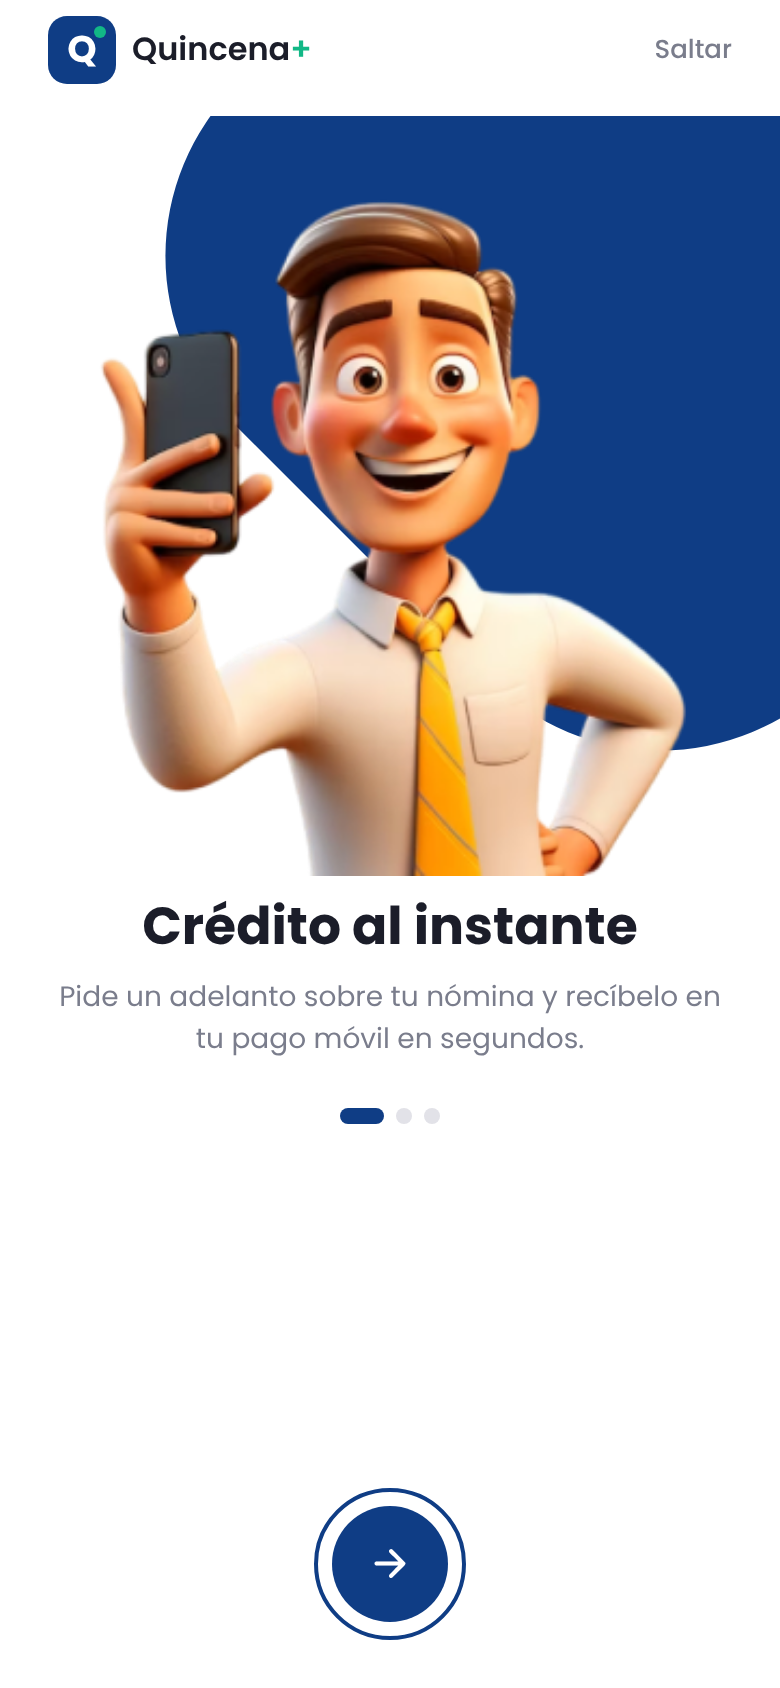
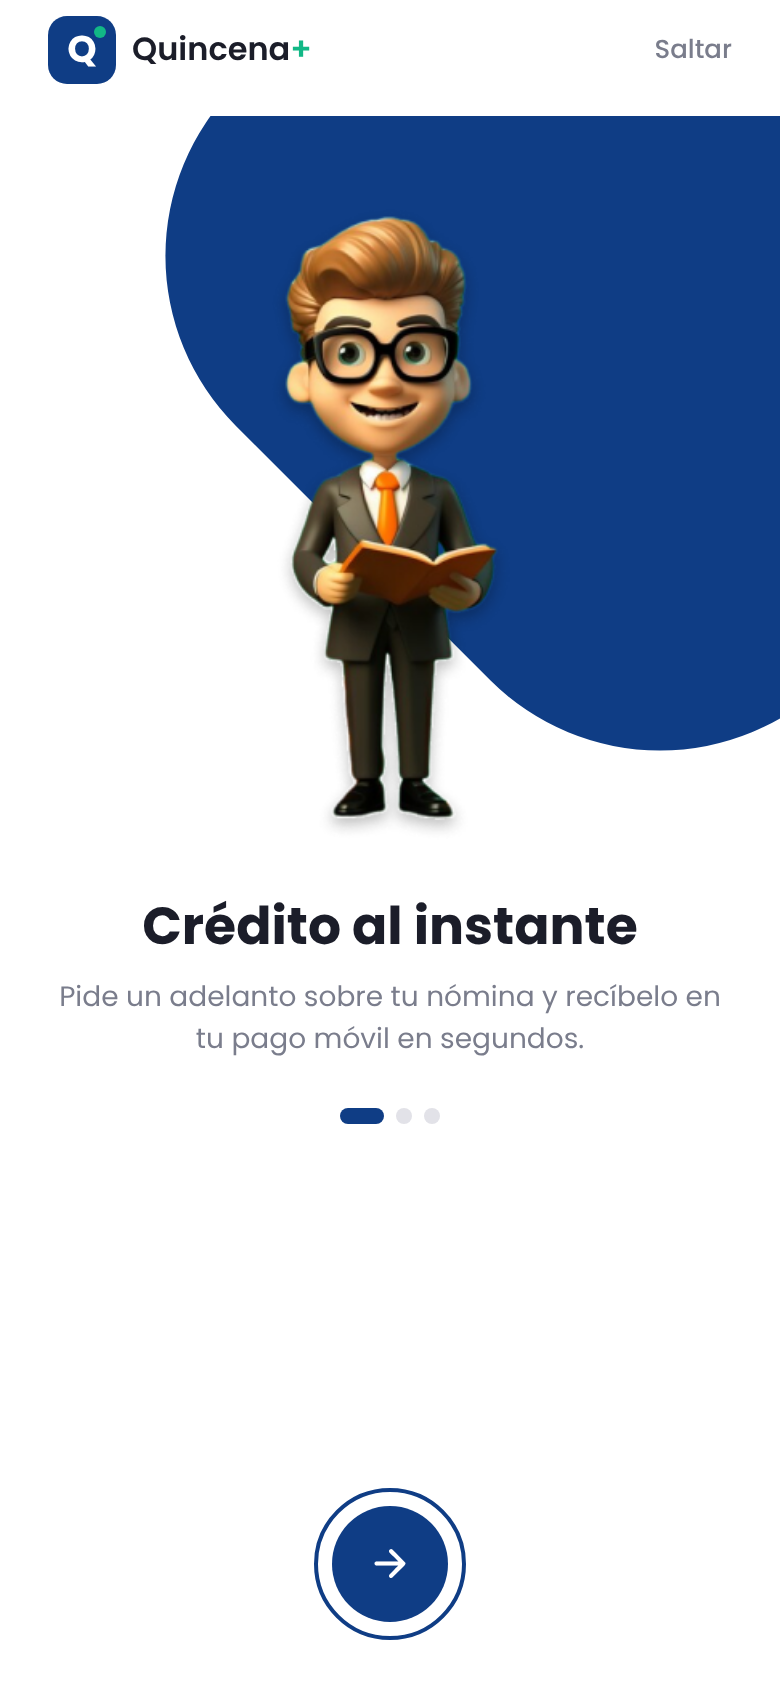
Reemplazar el personaje del teléfono por ilustraciones vectoriales animadas
Claude-Session: https://claude.ai/code/session_01PqSs9k62ArUHGqP9mjqCzU

Changed region(s): [[0.1231, 0.0924, 0.8923, 0.5237]]

diff --git a/src/components/Illustration.tsx b/src/components/Illustration.tsx
@@ -1,0 +1,119 @@
+import { Ionicons } from '@expo/vector-icons';
+import { useEffect, useRef } from 'react';
+import { Animated, Easing, View } from 'react-native';
+import { colors } from '../theme';
+
+type IconName = keyof typeof Ionicons.glyphMap;
+
+/** Ilustración vectorial: círculos concéntricos, ícono central y pequeñas insignias flotantes. */
+export function Illustration({
+  icon,
+  tint = colors.primary,
+  soft = colors.primarySoft,
+  badges = [],
+  size = 200,
+  spinning = false,
+}: {
+  icon: IconName;
+  tint?: string;
+  soft?: string;
+  badges?: readonly { icon: IconName; color: string }[];
+  size?: number;
+  spinning?: boolean;
+}) {
+  const spin = useRef(new Animated.Value(0)).current;
+  const pulse = useRef(new Animated.Value(0)).current;
+
+  useEffect(() => {
+    if (!spinning) return;
+    const a = Animated.loop(
+      Animated.timing(spin, { toValue: 1, duration: 2400, easing: Easing.linear, useNativeDriver: true }),
+    );
+    const b = Animated.loop(
+      Animated.sequence([
+        Animated.timing(pulse, { toValue: 1, duration: 700, useNativeDriver: true }),
+        Animated.timing(pulse, { toValue: 0, duration: 700, useNativeDriver: true }),
+      ]),
+    );
+    a.start();
+    b.start();
+    return () => {
+      a.stop();
+      b.stop();
+    };
+  }, [spinning, spin, pulse]);
+
+  const rotate = spin.interpolate({ inputRange: [0, 1], outputRange: ['0deg', '360deg'] });
+  const scale = pulse.interpolate({ inputRange: [0, 1], outputRange: [1, 1.08] });
+  const inner = size * 0.46;
+  // Insignias repartidas alrededor del círculo.
+  const positions = [
+    { top: size * 0.04, right: size * 0.06 },
+    { bottom: size * 0.1, left: size * 0.02 },
+    { top: size * 0.3, left: -size * 0.04 },
+    { bottom: size * 0.02, right: size * 0.12 },
+  ];
+
+  return (
+    <View style={{ width: size, height: size, alignItems: 'center', justifyContent: 'center' }}>
+      <View
+        style={{
+          position: 'absolute',
+          width: size,
+          height: size,
+          borderRadius: size / 2,
+          backgroundColor: soft,
+          opacity: 0.6,
+        }}
+      />
+      <Animated.View
+        style={{
+          position: 'absolute',
+          width: size * 0.78,
+          height: size * 0.78,
+          borderRadius: size,
+          borderWidth: 3,
+          borderStyle: spinning ? 'dashed' : 'solid',
+          borderColor: spinning ? tint : soft,
+          backgroundColor: colors.white,
+          transform: [{ rotate }],
+        }}
+      />
+      <Animated.View
+        style={{
+          width: inner,
+          height: inner,
+          borderRadius: inner / 2,
+          backgroundColor: tint,
+          alignItems: 'center',
+          justifyContent: 'center',
+          transform: [{ scale }],
+        }}
+      >
+        <Ionicons name={icon} size={inner * 0.5} color={colors.white} />
+      </Animated.View>
+      {badges.slice(0, 4).map((b, k) => (
+        <View
+          key={k}
+          style={{
+            position: 'absolute',
+            ...positions[k],
+            width: size * 0.2,
+            height: size * 0.2,
+            borderRadius: size * 0.06,
+            backgroundColor: colors.white,
+            alignItems: 'center',
+            justifyContent: 'center',
+            shadowColor: '#0A1F44',
+            shadowOpacity: 0.12,
+            shadowRadius: 10,
+            shadowOffset: { width: 0, height: 4 },
+            elevation: 3,
+          }}
+        >
+          <Ionicons name={b.icon} size={size * 0.1} color={b.color} />
+        </View>
+      ))}
+    </View>
+  );
+}

diff --git a/src/app/result.tsx b/src/app/result.tsx
@@ -1,7 +1,7 @@
-import { Ionicons } from '@expo/vector-icons';
 import { router, useLocalSearchParams } from 'expo-router';
-import { Image, StyleSheet, View } from 'react-native';
+import { StyleSheet, View } from 'react-native';
 import { SafeAreaView } from 'react-native-safe-area-context';
+import { Illustration } from '../components/Illustration';
 import { Button, T } from '../components/ui';
 import { formatBs, formatUsd } from '../lib/money';
 import { colors, space } from '../theme';
@@ -11,18 +11,28 @@ const CONTENT = {
   disbursed: {
     icon: 'checkmark',
     tint: colors.success,
+    soft: colors.successSoft,
+    badges: [
+      { icon: 'cash', color: colors.accent },
+      { icon: 'phone-portrait', color: colors.primary },
+      { icon: 'sparkles', color: colors.warning },
+    ],
     title: '¡Dinero enviado!',
     text: 'Tu crédito fue desembolsado a tu pago móvil.',
   },
   rejected: {
     icon: 'close',
     tint: colors.danger,
+    soft: colors.dangerSoft,
+    badges: [{ icon: 'business', color: colors.textMuted }],
     title: 'El banco rechazó el envío',
     text: 'No se creó ningún crédito ni se descontó tu cupo. Puedes intentarlo de nuevo más tarde.',
   },
   in_review: {
     icon: 'time-outline',
     tint: colors.warning,
+    soft: colors.warningSoft,
+    badges: [{ icon: 'business', color: colors.primary }],
     title: 'Tu crédito está en revisión',
     text: 'El banco aún no confirma el envío. Te avisaremos apenas se resuelva; no lo pidas de nuevo.',
   },
@@ -41,12 +51,8 @@ export default function Result() {
 
   return (
     <SafeAreaView style={styles.root} edges={['top', 'bottom']}>
-      <View style={[styles.side, { left: -140 }]} />
-      <View style={[styles.side, { right: -140 }]} />
-      <View style={{ alignItems: 'center', marginTop: space.xl }}>
-        <View style={[styles.check, { borderColor: c.tint }]}>
-          <Ionicons name={c.icon} size={30} color={c.tint} />
-        </View>
+      <View style={{ flex: 1, alignItems: 'center', justifyContent: 'center' }}>
+        <Illustration icon={c.icon} tint={c.tint} soft={c.soft} size={190} badges={c.badges} />
         <T variant="h1" style={{ textAlign: 'center', marginTop: space.lg, paddingHorizontal: space.lg }}>
           {c.title}
         </T>
@@ -60,7 +66,6 @@ export default function Result() {
           {p.message || c.text}
         </T>
       </View>
-      <Image source={require('../../assets/images/hero-phone.png')} style={styles.hero} resizeMode="contain" />
       <View style={{ padding: space.lg, gap: space.sm }}>
         {p.id && key !== 'rejected' ? (
           <Button
@@ -77,14 +82,4 @@ export default function Result() {
 
 const styles = StyleSheet.create({
   root: { flex: 1, backgroundColor: colors.white },
-  side: {
-    position: 'absolute',
-    top: '42%',
-    width: 220,
-    height: 360,
-    borderRadius: 180,
-    backgroundColor: colors.primary,
-  },
-  check: { width: 72, height: 72, borderRadius: 36, borderWidth: 3, alignItems: 'center', justifyContent: 'center' },
-  hero: { flex: 1, width: '70%', alignSelf: 'center', marginTop: space.md },
 });

diff --git a/src/app/welcome.tsx b/src/app/welcome.tsx
@@ -1,23 +1,46 @@
 import { router } from 'expo-router';
-import { useState } from 'react';
-import { Image, StyleSheet, View, useWindowDimensions } from 'react-native';
+import { useState, type ComponentProps } from 'react';
+import { Image, StyleSheet, View, useWindowDimensions, type ImageSourcePropType } from 'react-native';
 import { SafeAreaView } from 'react-native-safe-area-context';
+import { Illustration } from '../components/Illustration';
 import { Button, Logo, RoundArrowButton, T } from '../components/ui';
 import { colors, space } from '../theme';
 
-const SLIDES = [
+type IconName = ComponentProps<typeof Illustration>['icon'];
+type Slide = {
+  title: string;
+  text: string;
+  image?: ImageSourcePropType;
+  illustration?: { icon: IconName; badges: { icon: IconName; color: string }[] };
+};
+
+const SLIDES: Slide[] = [
   {
-    image: require('../../assets/images/hero-phone.png'),
+    image: require('../../assets/images/hero-book.png'),
     title: 'Crédito al instante',
     text: 'Pide un adelanto sobre tu nómina y recíbelo en tu pago móvil en segundos.',
   },
   {
-    image: require('../../assets/images/hero-phone-flip.png'),
+    illustration: {
+      icon: 'phone-portrait',
+      badges: [
+        { icon: 'calculator', color: colors.primary },
+        { icon: 'cash', color: colors.accent },
+        { icon: 'receipt', color: colors.warning },
+      ],
+    },
     title: 'Todo desde tu teléfono',
     text: 'Simula, solicita y paga tus cuotas sin papeleo ni filas en el banco.',
   },
   {
-    image: require('../../assets/images/hero-book.png'),
+    illustration: {
+      icon: 'shield-checkmark',
+      badges: [
+        { icon: 'lock-closed', color: colors.primary },
+        { icon: 'eye', color: colors.accent },
+        { icon: 'finger-print', color: colors.warning },
+      ],
+    },
     title: 'Claro y seguro',
     text: 'Ves tu cupo, tus cuotas y cada abono. Tus datos viajan cifrados.',
   },
@@ -49,8 +72,16 @@ export default function Welcome() {
       </View>
 
       <View style={[styles.heroWrap, { height: height * 0.46 }]}>
-        <View style={[styles.blob, i % 2 ? styles.blobLeft : styles.blobRight]} />
-        <Image source={slide.image} style={styles.hero} resizeMode="contain" />
+        {slide.image ? (
+          <>
+            <View style={[styles.blob, styles.blobRight]} />
+            <Image source={slide.image} style={styles.hero} resizeMode="contain" />
+          </>
+        ) : slide.illustration ? (
+          <View style={{ flex: 1, justifyContent: 'center' }}>
+            <Illustration icon={slide.illustration.icon} size={240} badges={slide.illustration.badges} />
+          </View>
+        ) : null}
       </View>
 
       <View style={{ paddingHorizontal: space.lg, alignItems: 'center' }}>

diff --git a/src/app/request.tsx b/src/app/request.tsx
@@ -1,10 +1,11 @@
 import { router, useLocalSearchParams } from 'expo-router';
 import { useEffect, useRef, useState } from 'react';
-import { ActivityIndicator, Image, Modal, Pressable, StyleSheet, TextInput, View } from 'react-native';
+import { ActivityIndicator, Modal, Pressable, StyleSheet, TextInput, View } from 'react-native';
 import { ApiError, messageFor } from '../api/errors';
 import { appApi } from '../api/endpoints';
 import type { Quote } from '../api/types';
 import { useAuth } from '../auth/AuthProvider';
+import { Illustration } from '../components/Illustration';
 import { Banner, Button, Card, OrangeHeader, Row, Screen, T, webNoOutline } from '../components/ui';
 import { formatBs, formatUsd, isValidAmount, normalizeAmountInput } from '../lib/money';
 import { formatCivilDate } from '../lib/validators';
@@ -194,13 +195,16 @@ export default function RequestCredit() {
       <Modal visible={sending} transparent animationType="fade">
         <View style={styles.overlay}>
           <View style={styles.overlayCard}>
-            <Image
-              source={require('../../assets/images/hero-phone.png')}
-              style={{ width: 130, height: 140 }}
-              resizeMode="contain"
+            <Illustration
+              icon="paper-plane"
+              spinning
+              size={170}
+              badges={[
+                { icon: 'cash', color: colors.accent },
+                { icon: 'phone-portrait', color: colors.primary },
+              ]}
             />
-            <ActivityIndicator color={colors.primary} size="large" style={{ marginTop: space.md }} />
-            <T variant="h3" style={{ marginTop: space.md, textAlign: 'center' }}>
+            <T variant="h3" style={{ marginTop: space.lg, textAlign: 'center' }}>
               Enviando tu dinero…
             </T>
             <T color={colors.textMuted} style={{ textAlign: 'center' }}>

diff --git a/src/app/check-email.tsx b/src/app/check-email.tsx
@@ -1,5 +1,6 @@
 import { router } from 'expo-router';
-import { Image, View } from 'react-native';
+import { View } from 'react-native';
+import { Illustration } from '../components/Illustration';
 import { Button, Card, OrangeHeader, Screen, T } from '../components/ui';
 import { colors, space } from '../theme';
 
@@ -20,11 +21,14 @@ export default function CheckEmail() {
     <View style={{ flex: 1, backgroundColor: colors.bg }}>
       <OrangeHeader title="Activa tu cuenta" subtitle="Revisa tu correo para empezar" />
       <Screen edges={[]}>
-        <View style={{ alignItems: 'center' }}>
-          <Image
-            source={require('../../assets/images/hero-phone.png')}
-            style={{ width: 170, height: 190 }}
-            resizeMode="contain"
+        <View style={{ alignItems: 'center', marginVertical: space.md }}>
+          <Illustration
+            icon="mail-unread"
+            size={170}
+            badges={[
+              { icon: 'key', color: colors.accent },
+              { icon: 'lock-closed', color: colors.primary },
+            ]}
           />
         </View>
         <Card>
